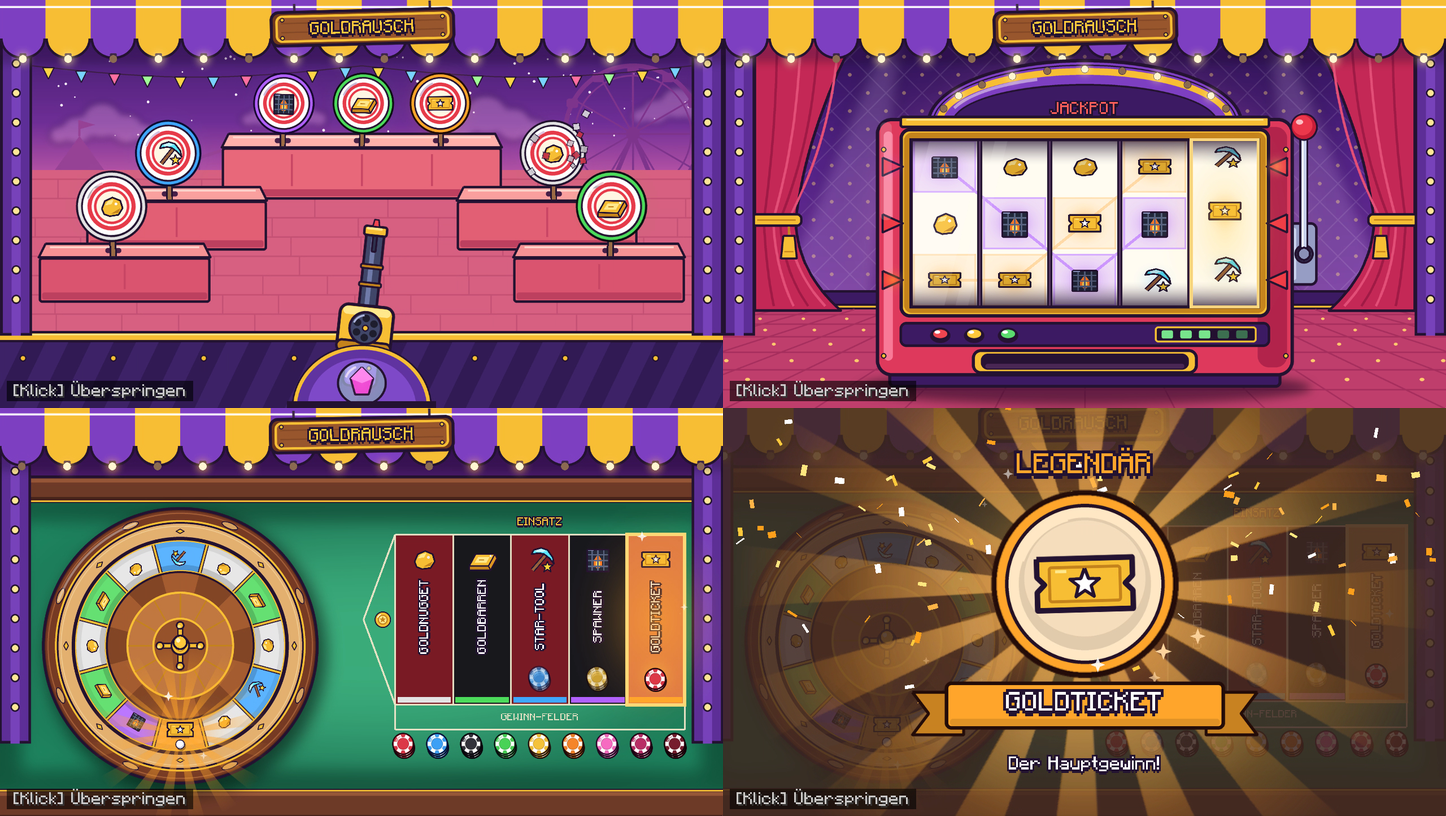
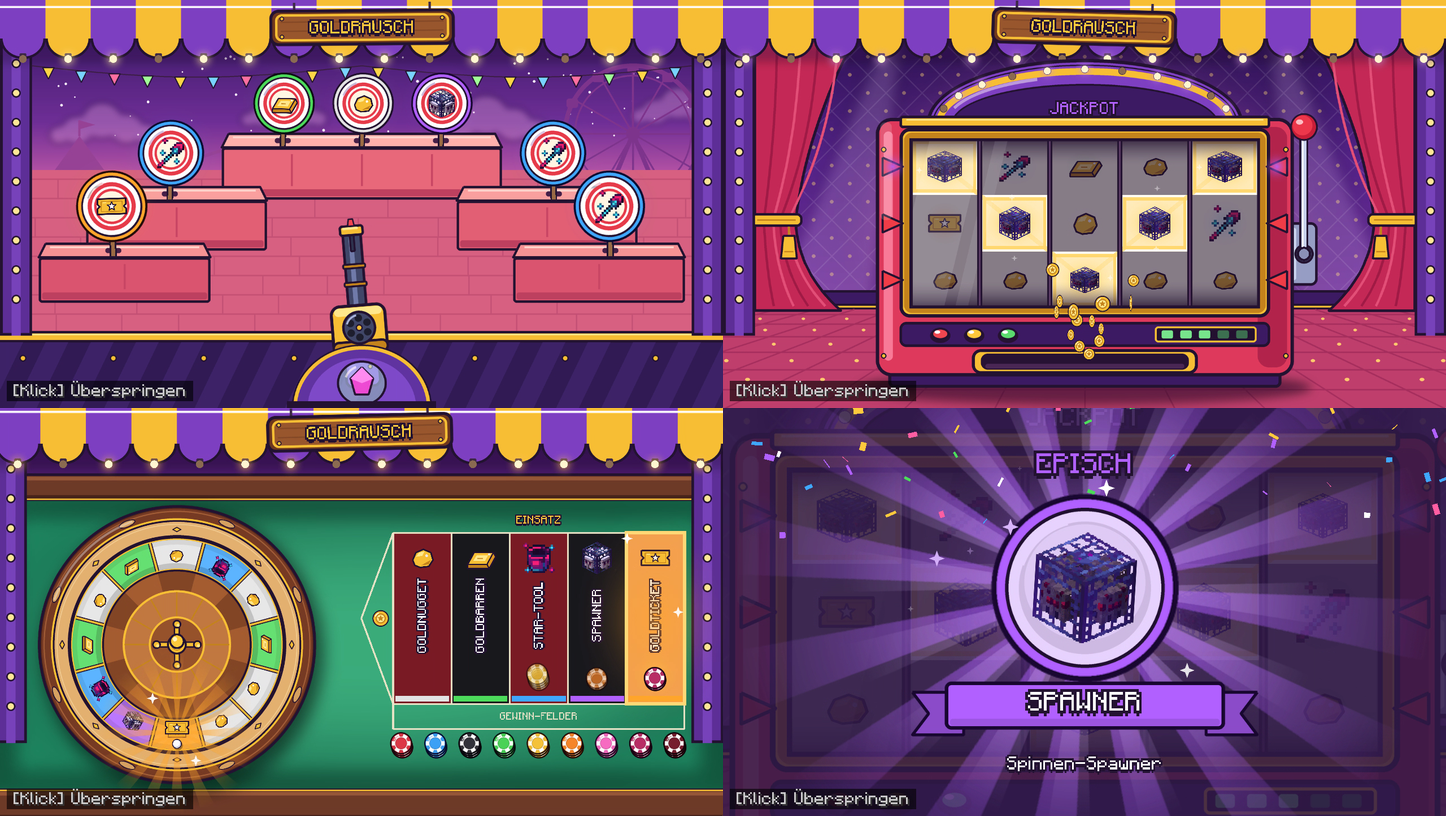
GIFs und Vorschau neu aufgenommen mit 1.6.1: zufällige Enden, Varianten-Bilder

diff --git a/README.md b/README.md
@@ -36,6 +36,8 @@ die Varianten auch als Köder auf.
 
 ### Die Animationen in Bewegung
 
+Jede Runde läuft anders aus. Die GIFs zeigen je ein Beispiel (aufgenommen mit Version 1.6.1).
+
 **Schießstand**
 
 ![Schießstand](docs/schiessstand.gif)
